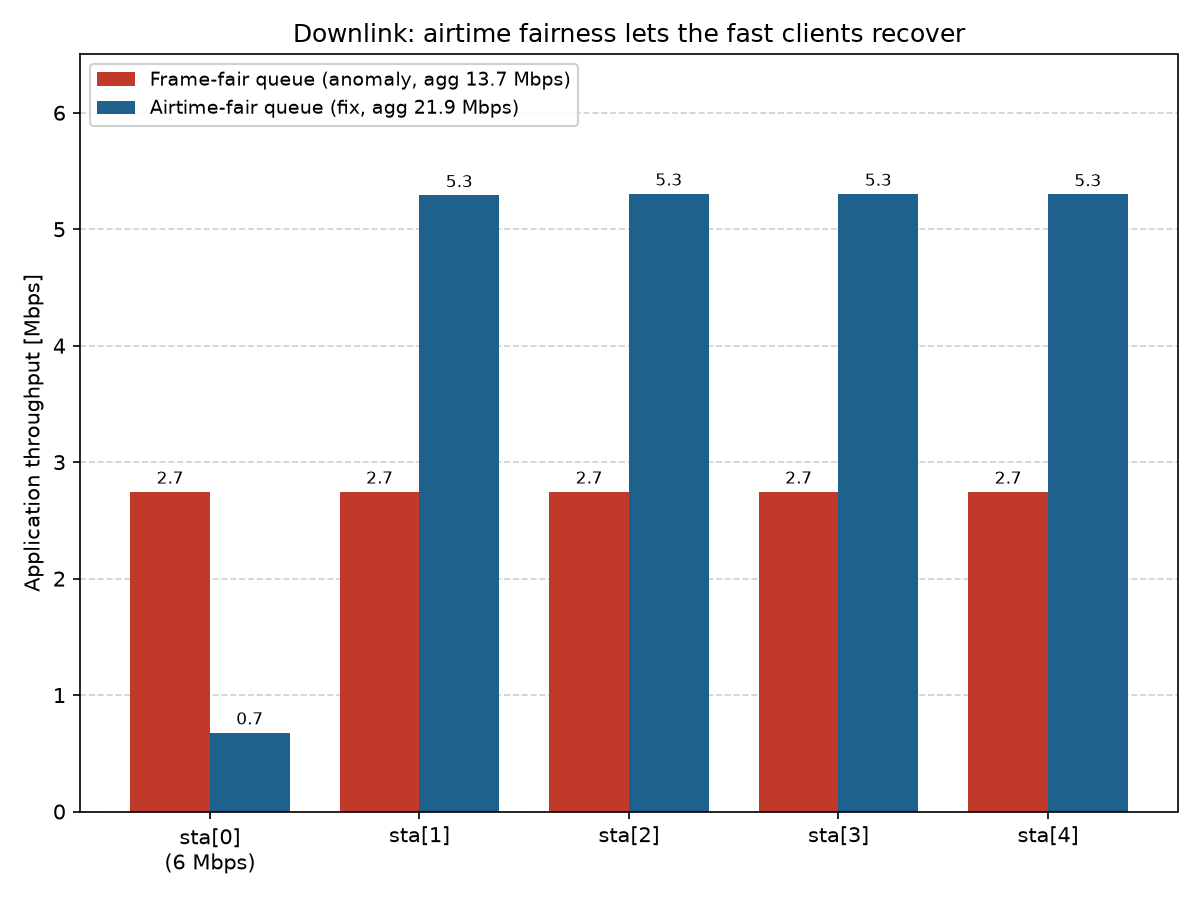
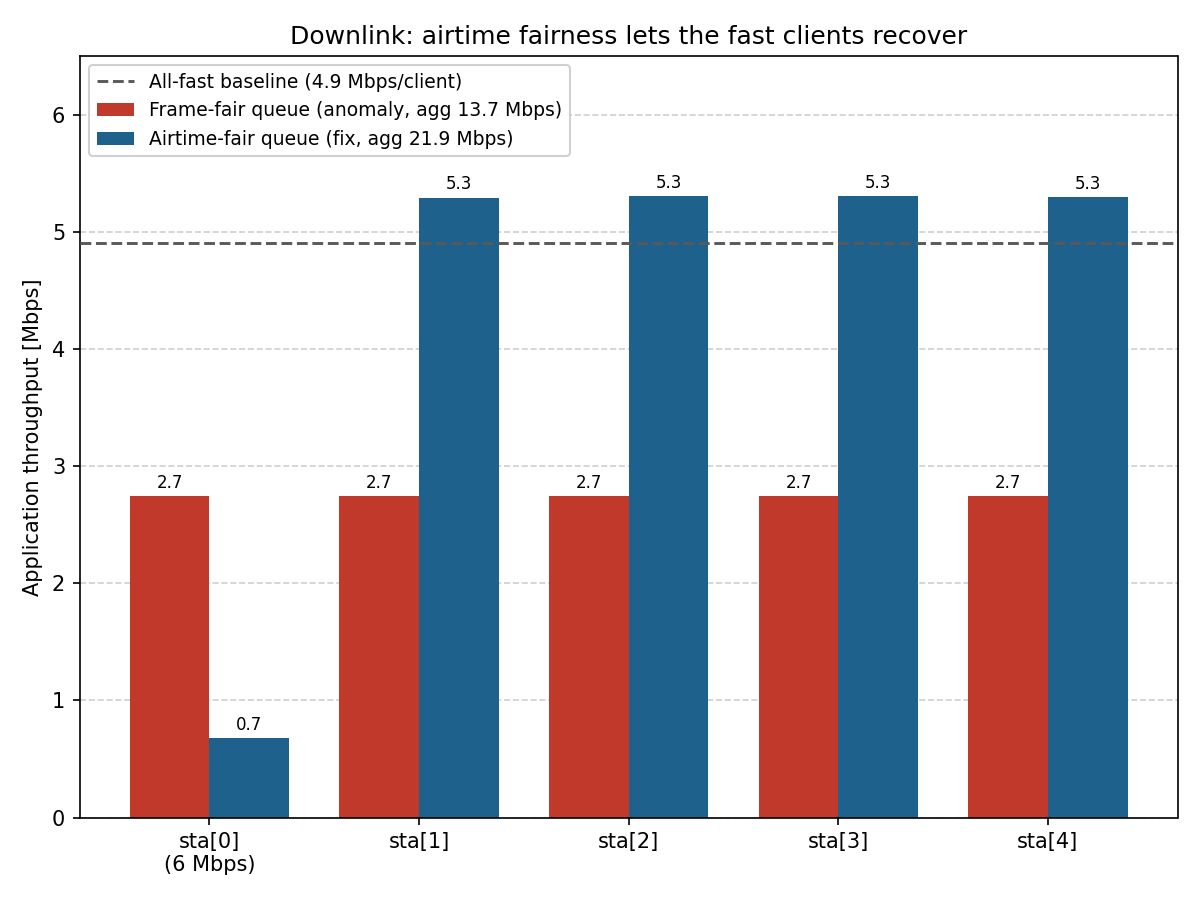
showcases/wireless/rateanomaly: correct two wrong claims, close review gaps
Two claims did not survive checking:

- "A stock access point with a plain FIFO transmit queue collapses the same
  way" as the frame-fair round robin. It does not. Running the same cell with
  INET's default PendingQueue gives sta[0] 4.1 Mbps and the fast clients
  0.7-0.8 each, aggregate 8.5 Mbps -- a deeper collapse with the ordering
  inverted, because a single drop-tail FIFO lets the slow client's backlog
  capture the queue. That is head-of-line blocking, not the rate anomaly. The
  text now says so and explains that AirtimeFairnessQueue's drop-from-longest
  overflow rule is what makes the frame-fair setting a clean baseline.
- "The TXOP curves also sit clearly above the plain-DCF all-fast baseline
  across the whole sweep." They are below it at the two widest gaps (22.7 and
  23.5 against 24.2 Mbps) and cross it between the 9 and 12 Mbps points, which
  is what the figure shows and what the preceding paragraph already implied.

Also, from the same review pass:

- Added [Config DownlinkHomogeneous], the missing all-fast downlink reference,
  and plotted it as a dashed line in downlink-throughput.png. It shows the
  recovered fast clients landing slightly ABOVE the 4.9 Mbps/client baseline,
  which the text now explains: the deficit charges a frame's own air time and
  not the ACK and interframe gaps, and those fixed costs weigh proportionally
  more on short fast frames.
- Added a config-summary table with run counts and the commands to launch
[…]

diff --git a/showcases/wireless/rateanomaly/dl-chart.py b/showcases/wireless/rateanomaly/dl-chart.py
@@ -4,9 +4,13 @@
 # adapted client (~6 Mbps); the other four are close (54 Mbps). Both configs are averaged
 # over 3 repetitions (DCF backoff uses the RNG, so both are averaged the same way).
 #
+# The dashed line is the all-fast reference: DownlinkHomogeneous, the same cell with no rate
+# gap, where each of the five clients gets 1/5 of the airtime at 54 Mbps.
+#
 # Reproduce (from this showcase directory):
 #   inet -u Cmdenv -c DownlinkAnomaly     -r 0..2 --repeat=3 --result-dir=results/dl
 #   inet -u Cmdenv -c DownlinkAirtimeFair -r 0..2 --repeat=3 --result-dir=results/dl
+#   inet -u Cmdenv -c DownlinkHomogeneous -r 0..2 --repeat=3 --result-dir=results/dl
 #   python3 dl-chart.py
 import re, glob
 import matplotlib
@@ -25,11 +29,14 @@ def per_station_mean(config):
 
 anomaly = per_station_mean("DownlinkAnomaly")
 fair = per_station_mean("DownlinkAirtimeFair")
+baseline = sum(per_station_mean("DownlinkHomogeneous")) / 5   # all-fast, per-client
 
 x = np.arange(5)
 w = 0.38
 plt.figure(figsize=(8, 6))
 ax = plt.gca()
+ax.axhline(baseline, color="0.35", ls="--", lw=1.4, zorder=3,
+           label=f"All-fast baseline ({baseline:.1f} Mbps/client)")
 b1 = ax.bar(x - w/2, anomaly, w, color="#c0392b", label=f"Frame-fair queue (anomaly, agg {sum(anomaly):.1f} Mbps)")
 b2 = ax.bar(x + w/2, fair,    w, color="#1f618d", label=f"Airtime-fair queue (fix, agg {sum(fair):.1f} Mbps)")
 ax.bar_label(b1, fmt="%.1f", padding=2, fontsize=8)

diff --git a/showcases/wireless/rateanomaly/doc/index.rst b/showcases/wireless/rateanomaly/doc/index.rst
@@ -60,18 +60,20 @@ disciplines that enforce airtime fairness avoid the anomaly, but they are outsid
 DCF.
 
 These airtime-fair disciplines take two forms, because the anomaly itself does — and this
-showcase reproduces both. One form is *uplink* — independent stations contending, each running
-its own DCF — and fixing it means every *contending* station must bound its own share. That is
+showcase reproduces both. One form is *uplink*: independent stations contending, each running
+its own DCF. Fixing it means every *contending* station must bound its own share, which is
 what the 802.11e standard adds with the transmission opportunity (TXOP). The mirror-image
-*downlink* form appears when one access point serves many clients of mixed rates: now a single
-transmitter divides *its own* airtime, a scheduling problem rather than a contention one. That
-is what production access points solve — the Linux ``mac80211`` stack schedules its own frames
-with a deficit-round-robin whose deficit is counted in airtime (microseconds) instead of bytes
-(Høiland-Jørgensen et al., `"Ending the Anomaly" <https://arxiv.org/abs/1703.00064>`__,
-USENIX ATC 2017), and many commercial access points expose an equivalent "airtime fairness"
-knob. That transmit-side scheduler only governs the frames a node sends itself, so it cures the
-downlink case but does nothing for distributed uplink contention — the two forms need separate
-fixes, both shown below.
+*downlink* form appears when one access point serves many clients of mixed rates. There is no
+contention to arbitrate — a single transmitter divides *its own* airtime among its
+destinations, a scheduling problem rather than a contention one.
+
+The downlink form is the one production access points face. The Linux ``mac80211`` stack
+schedules its own frames with a deficit round-robin whose deficit is counted in airtime
+(microseconds) instead of bytes (Høiland-Jørgensen et al., `"Ending the Anomaly"
+<https://arxiv.org/abs/1703.00064>`__, USENIX ATC 2017), and many commercial access points
+expose an equivalent "airtime fairness" knob. Such a transmit-side scheduler only governs the
+frames a node sends itself, so it cures the downlink case but does nothing for distributed
+uplink contention — the two forms need separate fixes, and both are shown below.
 
 The Model
 ---------
@@ -99,27 +101,29 @@ make one station slow and the rest fast purely by configuration:
 The relevant settings:
 
 - ``opMode = "g(erp)"`` — every interface runs 802.11g.
-- ``bitrate`` — the fixed data rate: 54 Mbps for the fast stations, lower for the slow
-  one.
+- ``bitrate`` — the fixed data rate. Here it is 54 Mbps everywhere; the configurations
+  below override it for one station to open the rate gap.
 - The transmit ``power`` is generous and all stations sit close to the access point, so
   every link is error-free at every rate. The slow station is slow *by configuration*,
   not because of a weak signal — this isolates the anomaly from packet loss.
-- A small MAC queue (``pendingQueue.packetCapacity``) together with an over-provisioned
-  UDP source keeps every station continuously backlogged, so the channel is fully
-  contended. This is the saturated regime in which the rate anomaly is defined.
+- A MAC queue of ten frames (``pendingQueue.packetCapacity``) together with an
+  over-provisioned UDP source keeps every station continuously backlogged, so the channel
+  is fully contended. This is the saturated regime in which the rate anomaly is defined.
+  The exact depth does not matter as long as the queue never drains — ten frames is simply
+  enough to keep one always ready to send while the excess is dropped at the queue rather
+  than buffered into a growing delay.
 
 Every station sends a saturating UDP stream to the server on its own port, so
 throughput can be measured separately for each station:
 
 .. literalinclude:: ../omnetpp.ini
-   :start-at: *.sta[*].numApps
-   :end-at: *.sta[*].app[0].sendInterval
+   :start-at: [Config UplinkBase]
+   :end-at: *.server.app[*].localPort
    :language: ini
 
-The traffic settings shown here make up an abstract ``[Config UplinkBase]``, which —
-together with the radio and node placement in ``[General]`` — the two runnable uplink
-configurations extend; the downlink section later builds a parallel
-``[Config DownlinkBase]``.
+These traffic settings, together with the radio and node placement in ``[General]``, make up
+an abstract ``[Config UplinkBase]`` that every uplink configuration extends; the downlink
+section later builds a parallel ``[Config DownlinkBase]``.
 
 The Network
 ~~~~~~~~~~~
@@ -127,6 +131,8 @@ The Network
 The network contains an access point with five wireless stations clustered nearby, and
 a wired server reachable through the access point. All five stations upload a saturating
 UDP flow to the server at the same time, so they continuously contend for the channel.
+``sta[0]`` is the station the later configurations slow down; the other four always stay
+at 54 Mbps.
 
 .. figure:: media/network.png
 ..
@@ -140,22 +146,55 @@ UDP flow to the server at the same time, so they continuously contend for the ch
              wired server reachable over Eth100M
    anchor:   initial state (t=0, before run). Structural -- no timing; if the module set
              or links differ, the NED changed.
-   capture:  Qtenv + MCP server; set_canvas_view {module_path:"<root>", fit:true} then
-             get_canvas_image {module_path:"<root>", area:"viewport"}; green canvas
-             margin trimmed with `convert -fuzz 6% -trim`. Was 858x688.
+   capture:  Qtenv + MCP server; set_canvas_view {module_path:"<root>", zoom:30} then
+             get_canvas_image {module_path:"<root>", area:"all_elements", margin:8}.
+             zoom 30 (not fit:true) keeps the 2 m station spacing wide enough for the
+             labels not to collide; all_elements still leaves the unused lower half of
+             the playground, so the result is cropped to its content bounding box with
+             an 18 px margin (background #d1d1d1, threshold 18, ignoring the green
+             playground frame). Was 858x688 with a third of it empty; now 798x540.
    stamp:    captured 2026-07, INET 4.6
+
+The Configurations
+~~~~~~~~~~~~~~~~~~
+
+Six runnable configurations are defined, in two families of three. The uplink family has the
+stations contending; the downlink family has the access point serving them. Within each
+family there is a no-rate-gap baseline, the anomaly, and the fix:
+
+===================  ==========  ==========================================================
+configuration        runs        what it shows
+===================  ==========  ==========================================================
+UplinkHomogeneous    1           baseline — all five stations at 54 Mbps
+UplinkAnomaly        6 (sweep)   the anomaly — ``sta[0]`` slowed, 36 Mbps down to 6 Mbps
+UplinkTxop           6 (sweep)   the fix — the same rate gap under 802.11e TXOP
+DownlinkHomogeneous  1           baseline — the AP serves all five clients at 54 Mbps
+DownlinkAnomaly      1           the anomaly — frame-fair AP queue, ``sta[0]`` at 6 Mbps
+DownlinkAirtimeFair  1           the fix — airtime-fair AP queue, same rate gap
+===================  ==========  ==========================================================
+
+Each is run from the showcase directory with, for example:
+
+.. code-block:: bash
+
+    $ inet -u Cmdenv -c UplinkAnomaly          # all six sweep points
+    $ inet -u Qtenv  -c DownlinkAirtimeFair    # watch one run in the GUI
+
+The two sweep configurations iterate ``sta[0]``'s bitrate, so they contain six runs each;
+add ``-r <n>`` to pick one. The sections below work through the uplink family first and the
+downlink family after it, each time establishing the anomaly before introducing the fix.
 
 The UplinkHomogeneous and UplinkAnomaly Configurations
 ~~~~~~~~~~~~~~~~~~~~~~~~~~~~~~~~~~~~~~~~~~~~~~~~~~~~~~
 
-Two runnable uplink configurations are defined. In **UplinkHomogeneous**, all five stations
-transmit at 54 Mbps — the baseline, in which the channel is shared fairly and the network runs at
-full 802.11g capacity. In **UplinkAnomaly**, one station is slowed while the other four
-stay at 54 Mbps; its bitrate is swept from 36 Mbps down to 6 Mbps to show how the
+The first two uplink configurations set up the contrast. In **UplinkHomogeneous**, all five
+stations transmit at 54 Mbps — the baseline, in which the channel is shared fairly and the
+network runs at full 802.11g capacity. In **UplinkAnomaly**, one station is slowed while the
+other four stay at 54 Mbps; its bitrate is swept from 36 Mbps down to 6 Mbps to show how the
 damage grows as the rate gap widens:
 
 .. literalinclude:: ../omnetpp.ini
-   :start-at: [Config UplinkAnomaly]
+   :start-at: [Config UplinkHomogeneous]
    :end-at: slowBitrate
    :language: ini
 
@@ -165,6 +204,13 @@ Results
 Each station's application-level throughput is measured at the server over the
 steady-state interval, after association settles. Each run lasts 5 s, with the first
 1 s discarded as warmup, so throughput is averaged over the remaining 4 s.
+
+DCF is not deterministic — the random backoff draws from the RNG — so results vary from
+seed to seed. The charts in this section come from a single run each, which is enough
+because the effect is far larger than the spread: individual stations differ by a few
+percent, the anomaly halves the whole cell. The two later charts that compare a *fix*
+against the anomaly average three repetitions per point, since there the run-to-run
+spread is comparable to some of the differences being plotted.
 
 In the **UplinkHomogeneous** baseline, all five stations achieve nearly the same throughput,
 about 4.6–5.0 Mbps each, for an aggregate of roughly 24 Mbps — full 802.11g saturation
@@ -307,9 +353,9 @@ before it has to contend again. DCF still hands out wins equally often, so an eq
 win means an equal share of airtime: a fast station simply packs many frames into its slice, a
 slow station only a few.
 
-The ``[Config UplinkTxop]`` configuration switches the interface to the QoS (EDCA) MAC and grants
-best-effort traffic a time-based TXOP. AC_BE's *default* TXOP limit is zero — one frame per
-win, i.e. plain DCF behaviour — so the fix is simply to set a nonzero limit; here we borrow
+The ``[Config UplinkTxop]`` configuration switches both the stations and the access point to
+the QoS (EDCA) MAC and grants best-effort traffic a time-based TXOP. AC_BE's *default* TXOP
+limit is zero — one frame per win — so the fix is simply to set a nonzero limit; here we borrow
 the standard's Video-category value (3.008 ms). (Best-effort traffic maps to AC_BE, which
 INET indexes as ``edcaf[1]``.) The MAC queue is deepened too, so a fast
 station has enough frames buffered to fill a burst; those are the only changes:
@@ -318,6 +364,12 @@ station has enough frames buffered to fill a burst; those are the only changes:
    :start-at: [Config UplinkTxop]
    :end-at: pendingQueue.packetCapacity
    :language: ini
+
+At a zero TXOP limit EDCA is *nearly* plain DCF — one frame per win either way — but not
+exactly: AC_BE contends with AIFSN 3, one slot time longer than DCF's DIFS. So this
+comparison changes the MAC as well as the TXOP limit. The difference works against the
+result shown below rather than for it: the longer AIFS makes EDCA marginally slower per
+win, so it can only understate the gain that follows.
 
 Rerunning the rate sweep tells a very different story. Where plain DCF's throughput
 collapses as the slow station slows — dragging the fast stations down with it — TXOP holds
@@ -352,10 +404,14 @@ itself falls from ~2.3 to ~0.9 Mbps — and that *is* airtime fairness, not a si
 only its fair share of time, a 6 Mbps station can clock out proportionally fewer bits, so it
 stops monopolising the medium and the others get their time back.
 
-The TXOP curves also sit clearly *above* the plain-DCF all-fast baseline across the whole
-sweep. Bursting amortises the fixed per-exchange overhead — backoff, SIFS/DIFS, the PHY
+Once the rate gap narrows past about 9 Mbps, the TXOP aggregate rises *above* the plain-DCF
+all-fast baseline altogether — it crosses the dashed line between the 9 and 12 Mbps sweep
+points and stays above it for the rest of the sweep, reaching ~28 Mbps at 36 Mbps. Bursting
+amortises the fixed per-exchange overhead — backoff, SIFS/DIFS, the PHY
 preamble and PLCP header — over several frames, so even a healthy all-fast cell gets more
-throughput under TXOP than under plain DCF. That is why modern 802.11 (n/ac/ax) does much the
+throughput under TXOP than under plain DCF. (At the two widest gaps the aggregate is still
+recovering and stays just under the baseline: 22.7 and 23.5 against 24.2 Mbps.) That is why
+modern 802.11 (n/ac/ax) does much the
 same all the time — frame aggregation (A-MPDU), typically carried inside a TXOP, amortises the
 same overhead; the showcase keeps a plain-DCF baseline only to isolate the rate-anomaly
 mechanism from this efficiency bonus. The TXOP limit is still a tradeoff, not "bigger is always
@@ -399,7 +455,7 @@ station and the access point relays them over the air — and makes ``sta[0]`` t
 pinning the rate the access point uses toward it:
 
 .. literalinclude:: ../omnetpp.ini
-   :start-at: *.accessPoint.wlan[*].mac.dcf.rateSelection.dataFrameBitratePerReceiver
+   :start-at: [Config DownlinkBase]
    :end-at: dataFrameBitratePerReceiver
    :language: ini
 
@@ -428,16 +484,34 @@ flip a single switch on it, ``fairnessEnabled``:
 
 ``[Config DownlinkAnomaly]`` runs the queue **frame-fair** (``fairnessEnabled = false``): it serves
 each client an equal number of *frames*, round-robin — the downlink analog of DCF's equal channel
-access. A stock access point with a plain FIFO transmit queue collapses the same way; the
-per-client round-robin is used here only so each client's throughput is separately measurable.
-``[Config DownlinkAirtimeFair]`` runs it **airtime-fair** with a *deficit round-robin*:
-each client carries a time budget that a fixed *quantum* — 1500 µs by default, about one
-max-length frame's airtime — tops up every round, and
-each frame it sends is charged its own on-air duration — computed from the frame's rate and length,
-so a slow client's long frames drain its budget fast. A client whose budget runs out waits for the
-next round's top-up, so over time every client gets the same share of transmit time whatever its
-frame size. (The charge is the frame's own air time — preamble, header and payload — not the
-acknowledgment and interframe gaps around it.)
+access. ``[Config DownlinkAirtimeFair]`` runs it **airtime-fair** with a *deficit round-robin*:
+each client carries a time budget, topped up by a fixed *quantum* — 1500 µs by default, which is
+roughly one full-length frame's airtime at the low end of the rate range and several frames'
+worth at the high end. Each frame the client sends is charged its own on-air duration, computed
+from the rate and length actually used, so a slow client's long frames drain its budget fast.
+The top-up is granted lazily rather than every round: the scheduler passes over a backlogged
+client whose budget has gone negative, hands it one quantum, and moves on, returning to it once
+it is back in credit. Over time every client therefore gets the same share of transmit time
+whatever its frame size. (The charge is the frame's own air time — preamble, header and
+payload — not the acknowledgment and interframe gaps around it. It is applied after the fact,
+per transmission, so retransmissions are charged too; here the links are error-free and the
+access point is the only transmitter, so there are effectively none.)
+
+Both configurations also cap the queue at 50 frames *shared* across all clients, and that shared
+cap needs an overflow rule. ``AirtimeFairnessQueue`` drops from the longest per-client backlog
+rather than from the tail of whichever flow happens to overflow, which keeps a slow client's
+backlog from crowding the others out of the queue. This matters more than it sounds: it is what
+makes the frame-fair setting a clean *frame-fairness* baseline rather than a mixture of two
+effects.
+
+That is also why the anomaly baseline here is a per-client round robin and not a plain FIFO. A
+stock access point with a single drop-tail FIFO does *not* reproduce the rate anomaly cleanly —
+running this same cell with INET's default ``PendingQueue`` instead gives 4.1 Mbps to ``sta[0]``
+and only 0.7–0.8 Mbps to each fast client, for an aggregate of 8.5 Mbps. That is a different and
+deeper pathology: with one shared FIFO the slow client's backlog captures a growing share of the
+queue and it ends up with *more* throughput than anyone else, on top of the airtime effect. The
+round robin isolates the rate anomaly from that head-of-line blocking, so the comparison below
+changes one thing only — how the airtime is divided.
 
 Both runs are visible in the cell itself. The rate visualizer draws each client's PHY rate as a bar
 above the access point — a short red bar at 6 Mbps for ``sta[0]``, tall green bars at 54 Mbps for
@@ -446,7 +520,7 @@ how the AP divides its transmit time, and each client's running received-packet 
 effect.
 
 Serving equal *frames*, the frame-fair queue lets ``sta[0]``'s slow transmissions dominate the
-channel — all five counts climb together to about the same value (~460-490), the four fast clients
+channel — all five counts climb together to nearly the same value (459 to 492), the four fast clients
 dragged down to the slow client's pace:
 
 .. figure:: media/downlink-cell-anomaly.png
@@ -456,7 +530,7 @@ dragged down to the slow client's pace:
    config:   DownlinkAnomaly, run 0
    seed:     default
    shows:    the downlink cell under the frame-fair AP queue -- rate-visualizer bars (sta[0]=6 red,
-             sta[1..4]=54 green) and per-station received-packet counts (all clients ~460-490)
+             sta[1..4]=54 green) and per-station received-packet counts (all clients 459-492)
    anchor:   at t=2s (1s past warmup); counts scale with time, the anomaly/fix contrast is
              structural. If the bars stop showing 6 vs 54, the dcf datarateSelected wiring changed.
    capture:  get_canvas_image (post-2026-07 fix it renders the live inspector = Qtenv's "Export to
@@ -495,14 +569,18 @@ The per-station throughput makes the same point quantitatively:
 ..
    FIGURE RECIPE (redo via ../dl-chart.py)
    type:     chart (matplotlib)
-   shows:    per-station application throughput, frame-fair (anomaly) vs airtime-fair AP queue;
-             frame-fair collapses all five clients to ~2.7 Mbps, airtime-fair lifts the four fast
-             clients to ~5.3 while holding sta[0] to its ~0.7 Mbps time share
-   inputs:   results/dl/DownlinkAnomaly-*.sca, results/dl/DownlinkAirtimeFair-*.sca, BOTH 3 reps
-             (DCF backoff uses the RNG, so both configs are averaged alike)
+   shows:    per-station application throughput, frame-fair (anomaly) vs airtime-fair AP queue,
+             against the all-fast per-client baseline (dashed); frame-fair collapses all five
+             clients to ~2.7 Mbps, airtime-fair lifts the four fast clients to ~5.3 -- slightly
+             ABOVE the 4.9 baseline -- while holding sta[0] to its ~0.7 Mbps time share
+   inputs:   results/dl/DownlinkAnomaly-*.sca, results/dl/DownlinkAirtimeFair-*.sca and
+             results/dl/DownlinkHomogeneous-*.sca, ALL 3 reps
+             (DCF backoff uses the RNG, so all three configs are averaged alike)
    record:   inet -u Cmdenv -c DownlinkAnomaly     -r 0..2 --repeat=3 --result-dir=results/dl
              inet -u Cmdenv -c DownlinkAirtimeFair -r 0..2 --repeat=3 --result-dir=results/dl
-   metric:   sta[i].app[0] packetReceived:count x 0.002 -> Mbps; per-station mean over 3 reps
+             inet -u Cmdenv -c DownlinkHomogeneous -r 0..2 --repeat=3 --result-dir=results/dl
+   metric:   sta[i].app[0] packetReceived:count x 0.002 -> Mbps; per-station mean over 3 reps;
+             baseline = mean over the five DownlinkHomogeneous clients
    anchor:   structural -- if the Downlink configs change, re-derive
    plot:     ../dl-chart.py (matplotlib; anomaly red, fix blue; 8x6 in @ dpi 150)
    stamp:    captured 2026-07, INET 4.6
@@ -515,11 +593,21 @@ to about 5.3 Mbps each — almost exactly double — and the aggregate recovers 
 stop a little short of the ~5.5 Mbps a fast station reaches under uplink TXOP: here all five flows
 funnel through the one access-point queue rather than five independent radios.)
 
+The dashed line is what the same cell delivers with no rate gap at all — ``[Config
+DownlinkHomogeneous]``, all five clients at 54 Mbps — which works out to 4.9 Mbps each, 24.5 Mbps
+aggregate. The recovered fast clients land slightly *above* it, at 5.3. That is not a
+measurement artefact but a consequence of what the queue charges: the deficit counts a frame's
+own air time and not the acknowledgment and interframe gaps around it, and those fixed costs are
+proportionally much larger for a short 54 Mbps frame than for a long 6 Mbps one. Equal *charged*
+airtime therefore hands the fast clients slightly more than a fifth of the real channel time, and
+``sta[0]`` slightly less. The effect is small, and it is the price of an accounting rule simple
+enough to compute from the frame alone.
+
 ``sta[0]`` moves the other way, down to ~0.7 Mbps — and that is the fairness *working*, not the
 slow client being punished. Under frame-fair scheduling ``sta[0]`` was the culprit rather than the
 victim: it had been taking far more than its one-fifth share of channel *time*, so its 2.7 Mbps
 was inflated by exactly the airtime it stole from the others. Airtime fairness holds it to an equal
-*time* share, and ~0.7 Mbps is honestly all a 6 Mbps link delivers in one-fifth of the airtime —
+*time* share, and ~0.7 Mbps is honestly all a 6 Mbps link delivers in roughly a fifth of the airtime —
 while the aggregate *rises* from ~14 to ~22 Mbps, so nothing is taken from anyone. The fast
 clients' recovery is precisely the airtime ``sta[0]`` was monopolising, handed back.
 
